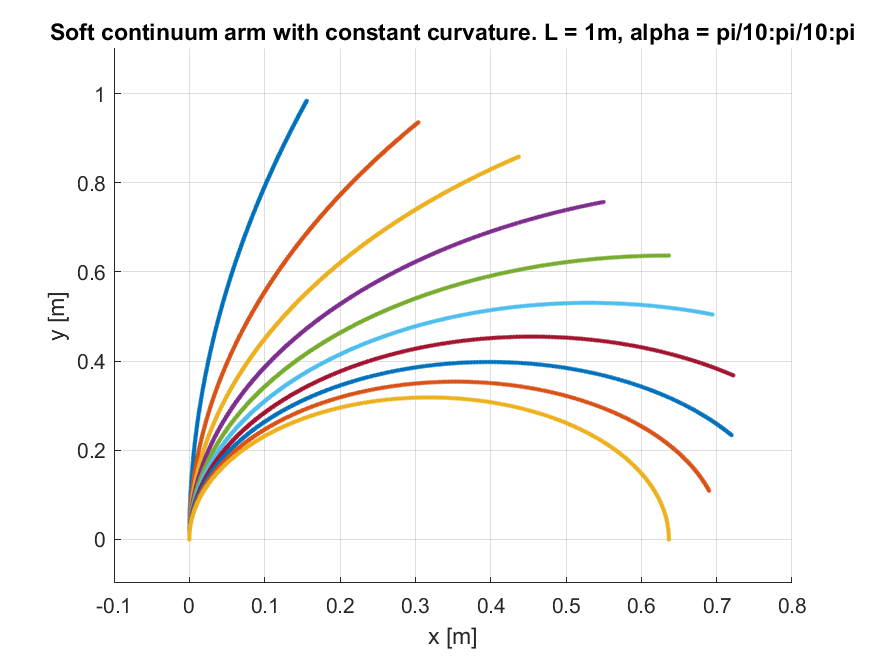
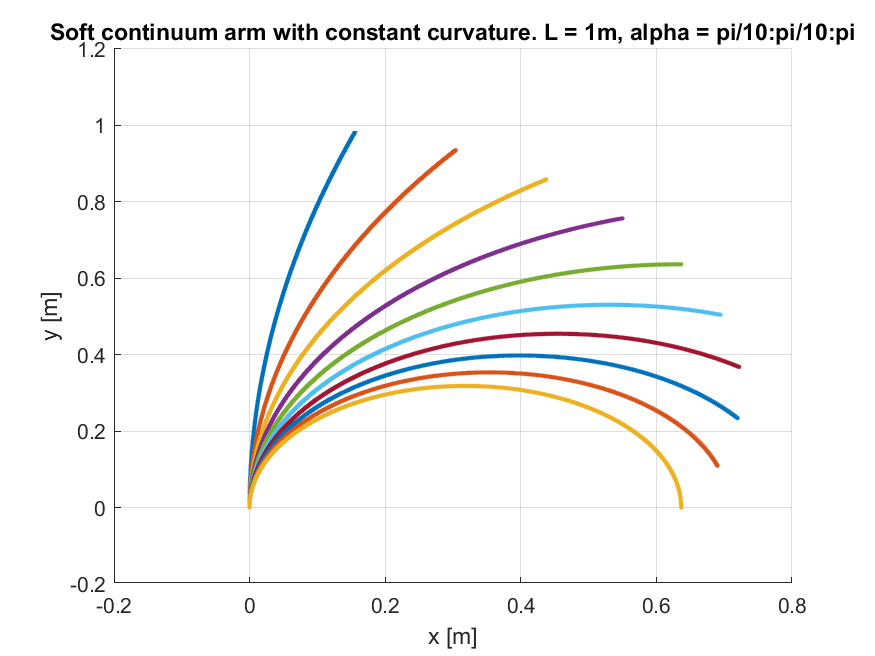
plot scales adjusted

diff --git a/Codes/Constant_curvature_plots.m b/Codes/Constant_curvature_plots.m
@@ -8,7 +8,7 @@ figure; hold on
 
 for alpha = pi/10:pi/10:pi
     temp_points = [];
-    for s = 0:0.002:1
+    for s = 0:0.0002:1
         T_1 = homogeneousTransformMatrix(s, alpha, length);
         px = T_1(1, 4);
         py = T_1(2, 4);
@@ -19,8 +19,11 @@ end
 
 % Plot parameters
 grid on
-xlim([-0.1 0.8])
-ylim([-0.1 1.1])
+xmax = 0.8; xmin = -0.2; ymax = 1.2; ymin = -0.2;
+xlim([xmin xmax])
+ylim([ymin ymax])
+set(gca, 'xtick', xmin:0.2:xmax)
+set(gca, 'ytick', ymin:0.2:ymax)
 xlabel("x [m]")
 ylabel("y [m]")
 title("Soft continuum arm with constant curvature. L = 1m, alpha = pi/10:pi/10:pi")
@@ -51,8 +54,11 @@ for alpha = pi/10:pi/10:pi
     xlabel("x [m]")
     ylabel("y [m]")
     title("Soft continuum arm with constant curvature. L = 1m, alpha = pi/10:pi/10:pi")
-    xlim([-0.1 0.8])
-    ylim([-0.1 1.1])
+    xmax = 0.8; xmin = -0.2; ymax = 1.2; ymin = -0.2;
+    xlim([xmin xmax])
+    ylim([ymin ymax])
+    set(gca, 'xtick', xmin:0.2:xmax)
+    set(gca, 'ytick', ymin:0.2:ymax)
     grid on
     drawnow
     
